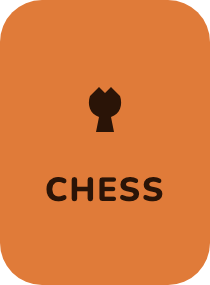
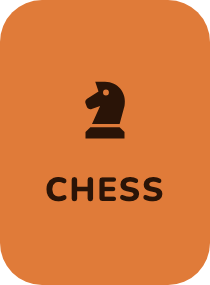
Chess glyph is a knight; Daily Sound asks for Listen once
- The Chess icon is a knight in the hub rows, the card launcher and the
  Pocket tiles (only tile-chess-*.png re-baked).
- Sound: the arrow after a reveal plays the next tone; only the first tone
  (and a reload) waits for Listen. Rules copy follows.

Changed region(s): [[0.4, 0.2807, 0.6, 0.5053]]

diff --git a/app/src/games/sound/view.test.ts b/app/src/games/sound/view.test.ts
@@ -170,7 +170,7 @@ describe("Sound view", () => {
     view.dispose();
   });
 
-  it("submits, reveals round, score, verdict, target and guess, then the arrow goes to the next listen", async () => {
+  it("submits, reveals round, score, verdict, target and guess, then the arrow plays the next tone with no second Listen", async () => {
     const view = await open(sourceFor());
     await listen(view.element);
     dial(view.element, hzToCents(TARGETS[0]!));
@@ -190,10 +190,13 @@ describe("Sound view", () => {
     const next = view.element.querySelector<HTMLButtonElement>("[data-sound-next]")!;
     expect(next.getAttribute("aria-label")).toBe("Next tone");
     next.click();
+    // Why: Listen is the one tap that unlocks audio; after it, the arrow is
+    // tap enough, so a second Listen would only slow every round.
+    await vi.advanceTimersByTimeAsync(0);
     expect(view.element.querySelector("[data-sound-round]")?.textContent).toBe("Tone 2 of 5");
-    expect(view.element.querySelector('[data-sound-phase="listen"]')).not.toBeNull();
-    await listen(view.element);
+    expect(view.element.querySelector('[data-sound-phase="playing"]')).not.toBeNull();
     expect(audio.playTone).toHaveBeenLastCalledWith(TARGETS[1], 2);
+    await vi.advanceTimersByTimeAsync(2_200);
     // Every tone's pitch starts mid-range again.
     expect(pitch(view.element).getAttribute("aria-valuetext")).toBe(`${START_HZ.toFixed(2)} Hz`);
     view.dispose();
@@ -204,7 +207,12 @@ describe("Sound view", () => {
     const view = await open(sourceFor(0n, record));
     const guesses: number[] = [];
     for (let round = 0; round < 5; round += 1) {
-      await listen(view.element);
+      if (round === 0) {
+        await listen(view.element);
+      } else {
+        // The arrow already started this tone.
+        await vi.advanceTimersByTimeAsync(2_200);
+      }
       // A tone a hundred cents (a semitone) sharp of each target.
       const cents = Math.min(3600, hzToCents(TARGETS[round]!) + 100);
       dial(view.element, cents);
@@ -242,7 +250,7 @@ describe("Sound view", () => {
     await listen(first.element);
     first.element.querySelector<HTMLButtonElement>("[data-sound-submit]")!.click();
     first.element.querySelector<HTMLButtonElement>("[data-sound-next]")!.click();
-    await listen(first.element);
+    await vi.advanceTimersByTimeAsync(2_200);
     first.dispose();
     document.body.replaceChildren();
 

diff --git a/app/src/shared/ui/game-glyphs.ts b/app/src/shared/ui/game-glyphs.ts
@@ -20,10 +20,10 @@ const GLYPHS: Record<GameSlug, string> = {
   // A 3×3 grid.
   sudoku:
     '<rect x="3.5" y="3.5" width="17" height="17" rx="2"/><path d="M9.2 3.5v17M14.8 3.5v17M3.5 9.2h17M3.5 14.8h17"/>',
-  // A pawn.
+  // A knight, the eye cut out.
   chess:
-    '<circle cx="12" cy="6.5" r="2.5" fill="%f" stroke="none"/>'
-    + '<path d="M9.5 11h5l1.5 5.5h-8z" fill="%f" stroke="none"/><path d="M6.5 20.5h11l-1-3h-9z" fill="%f" stroke="none"/>',
+    '<path fill-rule="evenodd" d="M9 3l1 3-3.5 2.2c-.5.3-.7.9-.5 1.4l.4 1.1c.2.6.9.9 1.5.7l2.6-.9L8 16h8.5l1.5-5.5C18.8 6.5 16 3 12 3zM12.3 5.4a.9.9 0 1 0 0 1.8.9.9 0 1 0 0-1.8z" fill="%f" stroke="none"/>'
+    + '<path d="M7.5 17h9l1.5 1.5v2H6v-2z" fill="%f" stroke="none"/>',
   // A circle with meridians.
   globe:
     '<circle cx="12" cy="12" r="8.5"/><ellipse cx="12" cy="12" rx="3.5" ry="8.5"/><path d="M3.5 12h17"/>',

diff --git a/app/src/shared/ui/game-row.ts b/app/src/shared/ui/game-row.ts
@@ -44,7 +44,7 @@ const GLYPHS: Record<GameSlug, string> = {
     '<g fill="none" stroke="currentColor" stroke-width="1.8"><rect x="3" y="3" width="18" height="18"/>'
     + '<path d="M3 9h18M3 15h18M9 3v18M15 3v18"/></g>',
   chess:
-    '<circle cx="12" cy="6.5" r="3.5"/><path d="M9.5 10.5h5l1.5 6h-8z"/><path d="M6 18.5h12a1.5 1.5 0 0 1 1.5 1.5v1h-15v-1A1.5 1.5 0 0 1 6 18.5z"/>',
+    '<path fill-rule="evenodd" d="M9 3l1 3-3.5 2.2c-.5.3-.7.9-.5 1.4l.4 1.1c.2.6.9.9 1.5.7l2.6-.9L8 16h8.5l1.5-5.5C18.8 6.5 16 3 12 3zM12.3 5.4a.9.9 0 1 0 0 1.8.9.9 0 1 0 0-1.8z"/><path d="M7.5 17h9l1.5 1.5v2H6v-2z"/>',
   globe:
     '<g fill="none" stroke="currentColor" stroke-width="1.8"><circle cx="12" cy="12" r="9"/>'
     + '<ellipse cx="12" cy="12" rx="4" ry="9"/><path d="M3 12h18"/></g>',

diff --git a/app/src/games/sound/view.ts b/app/src/games/sound/view.ts
@@ -461,9 +461,9 @@ export function renderSound(source: DataSource, requestedDay?: number): ViewHand
         renderGame();
         submitAndRender();
       } else {
+        // Only the first tone waits for Listen: this tap plays the next one.
         startListen();
-        renderGame();
-        shell.querySelector<HTMLElement>("[data-sound-listen]")?.focus();
+        void listen();
       }
     });
     board.append(count, result, rows, next);

diff --git a/app/src/shared/ui/rules.ts b/app/src/shared/ui/rules.ts
@@ -91,7 +91,7 @@ export const RULES: Record<GameSlug, GameRules> = {
   },
   sound: {
     steps: [
-      { visual: emoji("🔊"), text: "Tap Listen to hear a tone, once." },
+      { visual: emoji("🔊"), text: "Tap Listen to start. Each tone plays once." },
       { visual: emoji("👆"), text: "Hold and drag up or down to find it again, then Submit." },
       { visual: emoji("🎵"), text: "Five tones a day. Sound on!" },
     ],

diff --git a/PROGRESS.md b/PROGRESS.md
@@ -211,6 +211,11 @@ any single context window. `PLAN.md` is the design; this is where things actuall
   the live drag tone follows it as the pitch moves. The tone gains soft 2nd and 3rd
   harmonics so phone speakers, which barely play 110 Hz, still carry the pitch; scoring
   is unchanged. Not yet heard on a device: tune `COMPENSATION` / `PEAK_LEVEL` by ear.
+- **Chess knight, one Listen (2026-10-26, Shawn):** the Chess glyph is a knight, not a
+  pawn, in the hub rows, the card launcher and the two baked Pocket tiles
+  (`tile-chess-*.png`; only those two re-baked). Daily Sound asks for Listen once: the
+  arrow after a reveal plays the next tone itself (that tap unlocks audio too); a
+  reload mid-game still shows Listen. Not checked on a device.
 - **Angle on-screen pad (2026-10-24, Shawn: the keyboard covered the hints):** Angle's
   number input opened the phone keyboard over the hint list and refocused after every
   guess. It now has a readout and a two-row pad (`1–5 ⌫ / 6–0 Guess`), physical keys on
